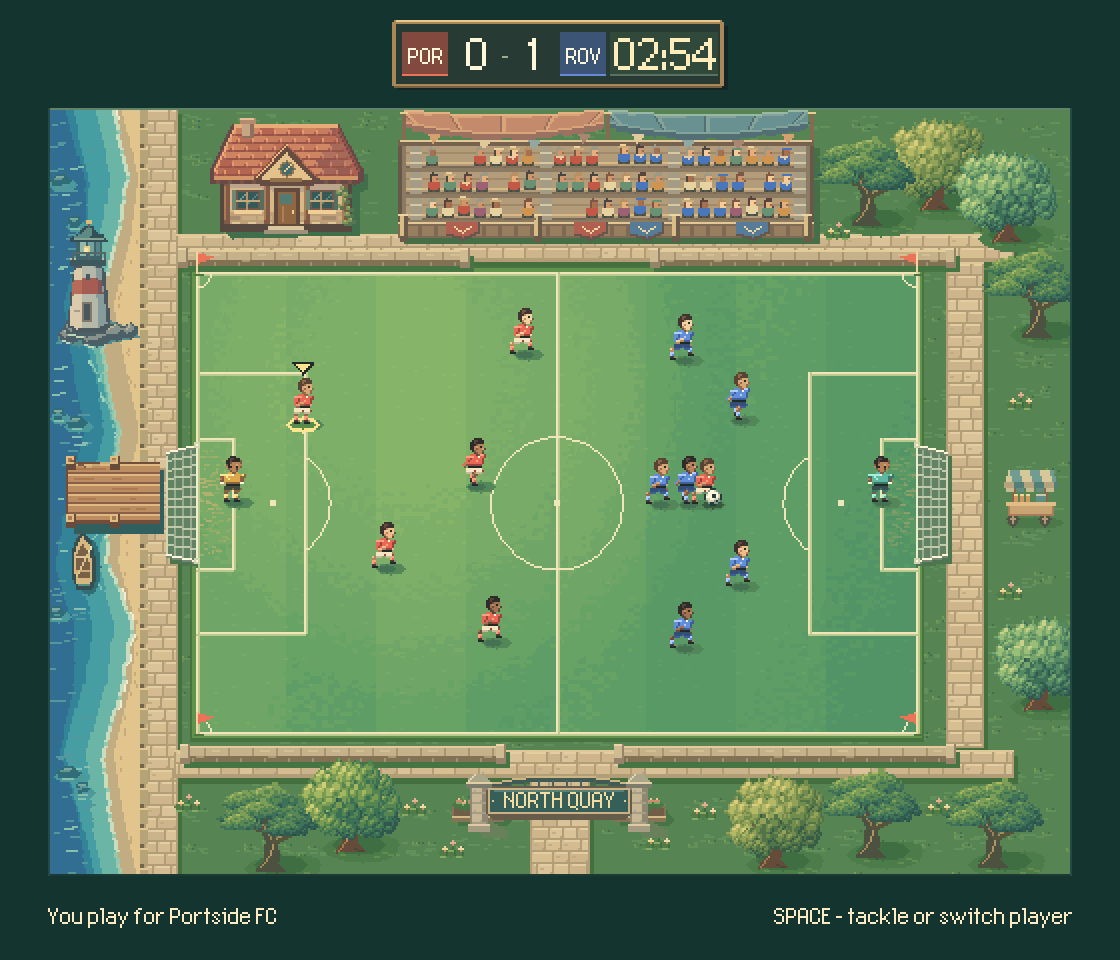
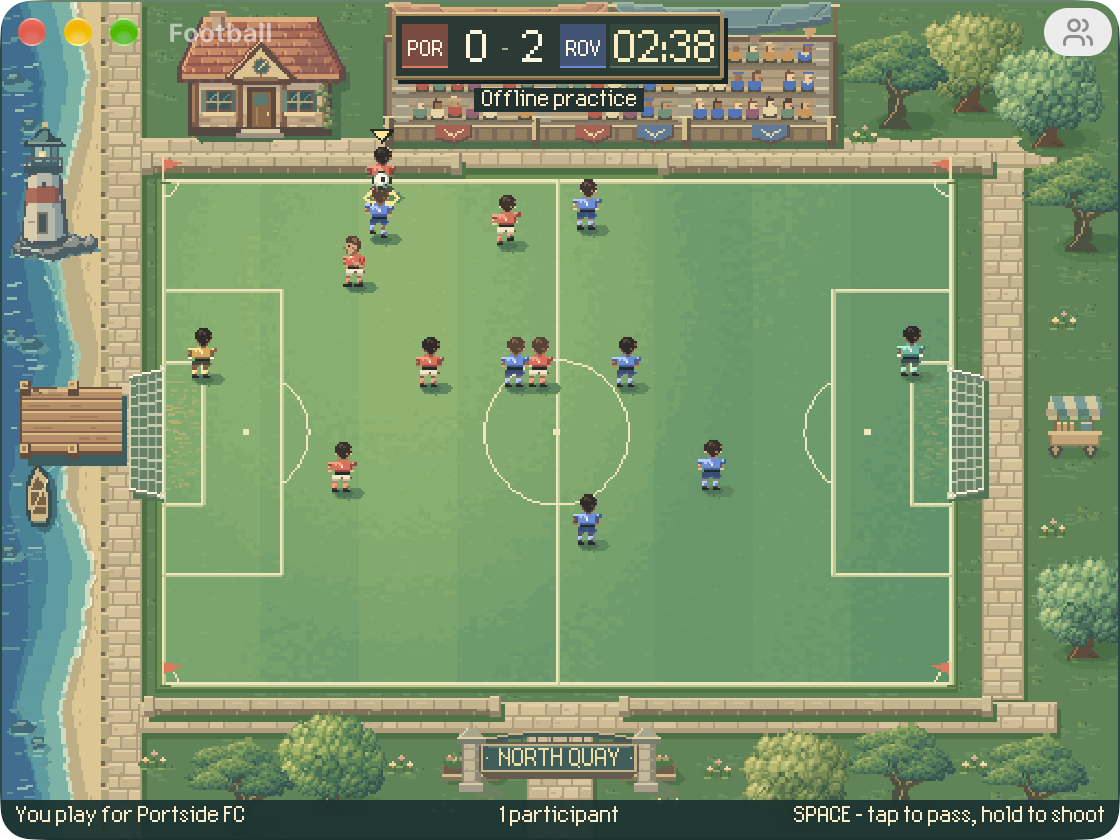
football: fill a 4:3 window with a transparent titlebar

diff --git a/football/README.md b/football/README.md
@@ -4,13 +4,13 @@ Play a three-minute game of seven-a-side football at North Quay. Portside FC
 wear coral and attack the goal on the right. Rovers wear blue and attack the
 goal on the left. Look for the ring under the player you control.
 
-<img src="screenshot.png" width="560" height="480">
+<img src="screenshot.png" width="560" height="420" alt="A match at North Quay in the Football window">
 
 ## Kick off
 
-Follow the [Playbit setup instructions](../README.md), then run `pb run` from
-the `football` directory. You can play solo with computer-controlled teammates
-and opponents.
+Install Playbit 0.1.3 or later using the [setup instructions](../README.md),
+then run `pb run` from the `football` directory. You can play solo with
+computer-controlled teammates and opponents.
 
 To play with friends, click **Copy Session Link** in the top right of the game
 window and send them the link to open in Playbit. Up to 14 people can play.
